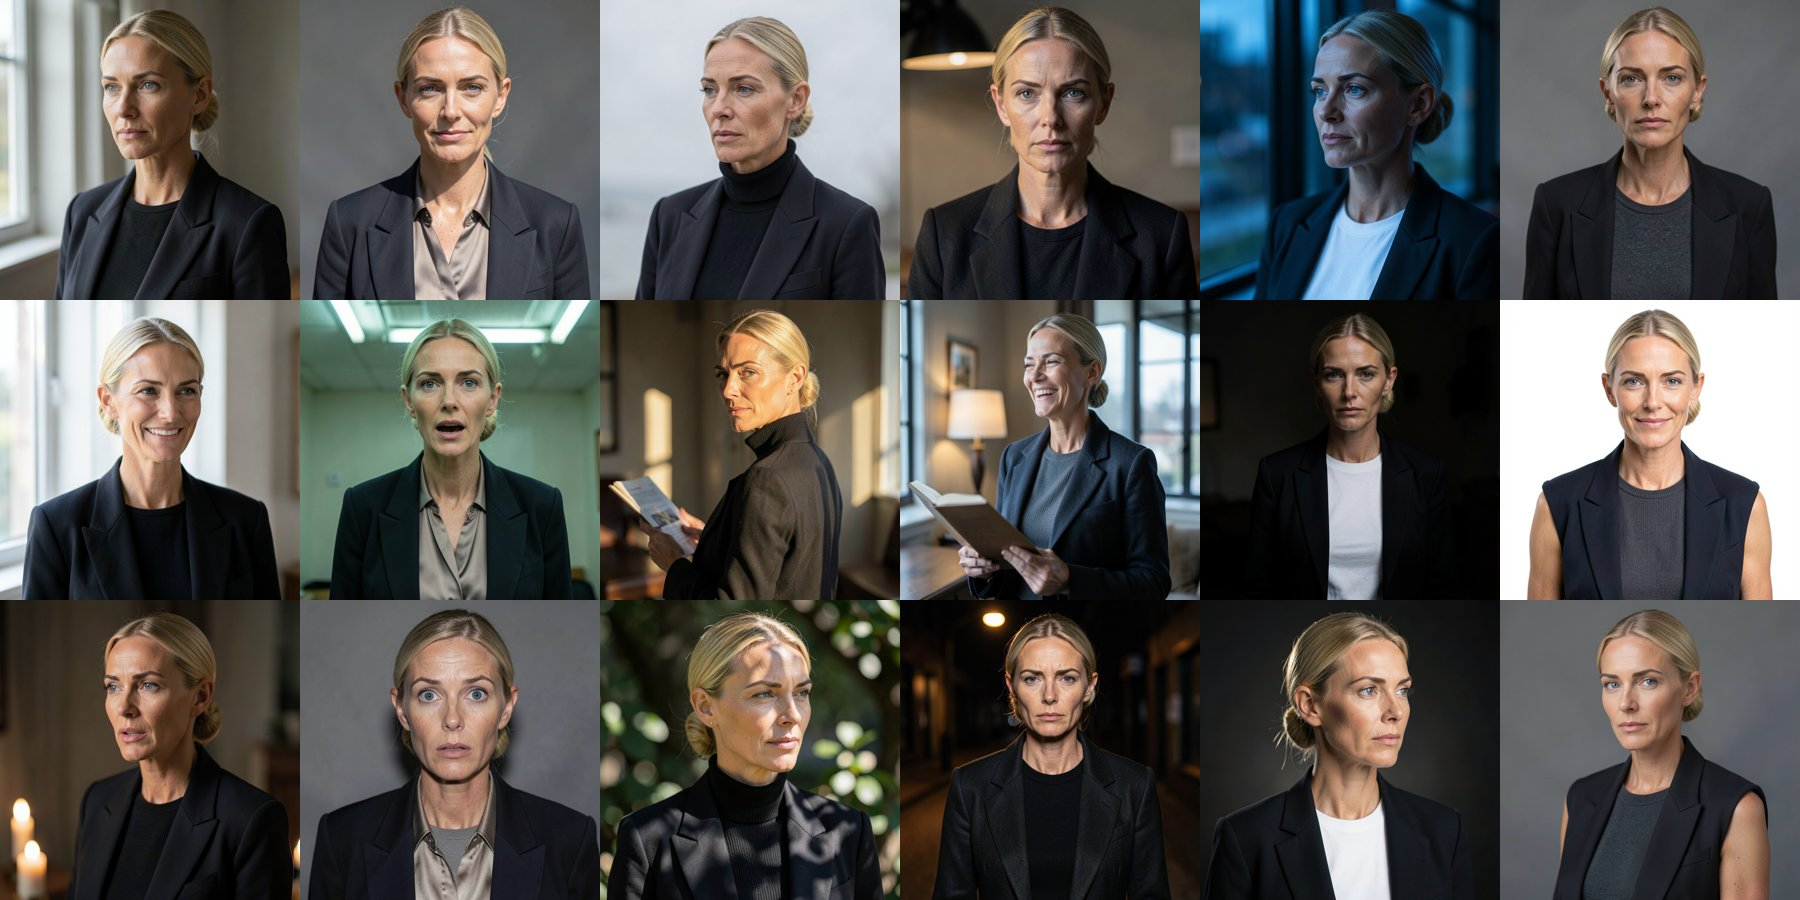
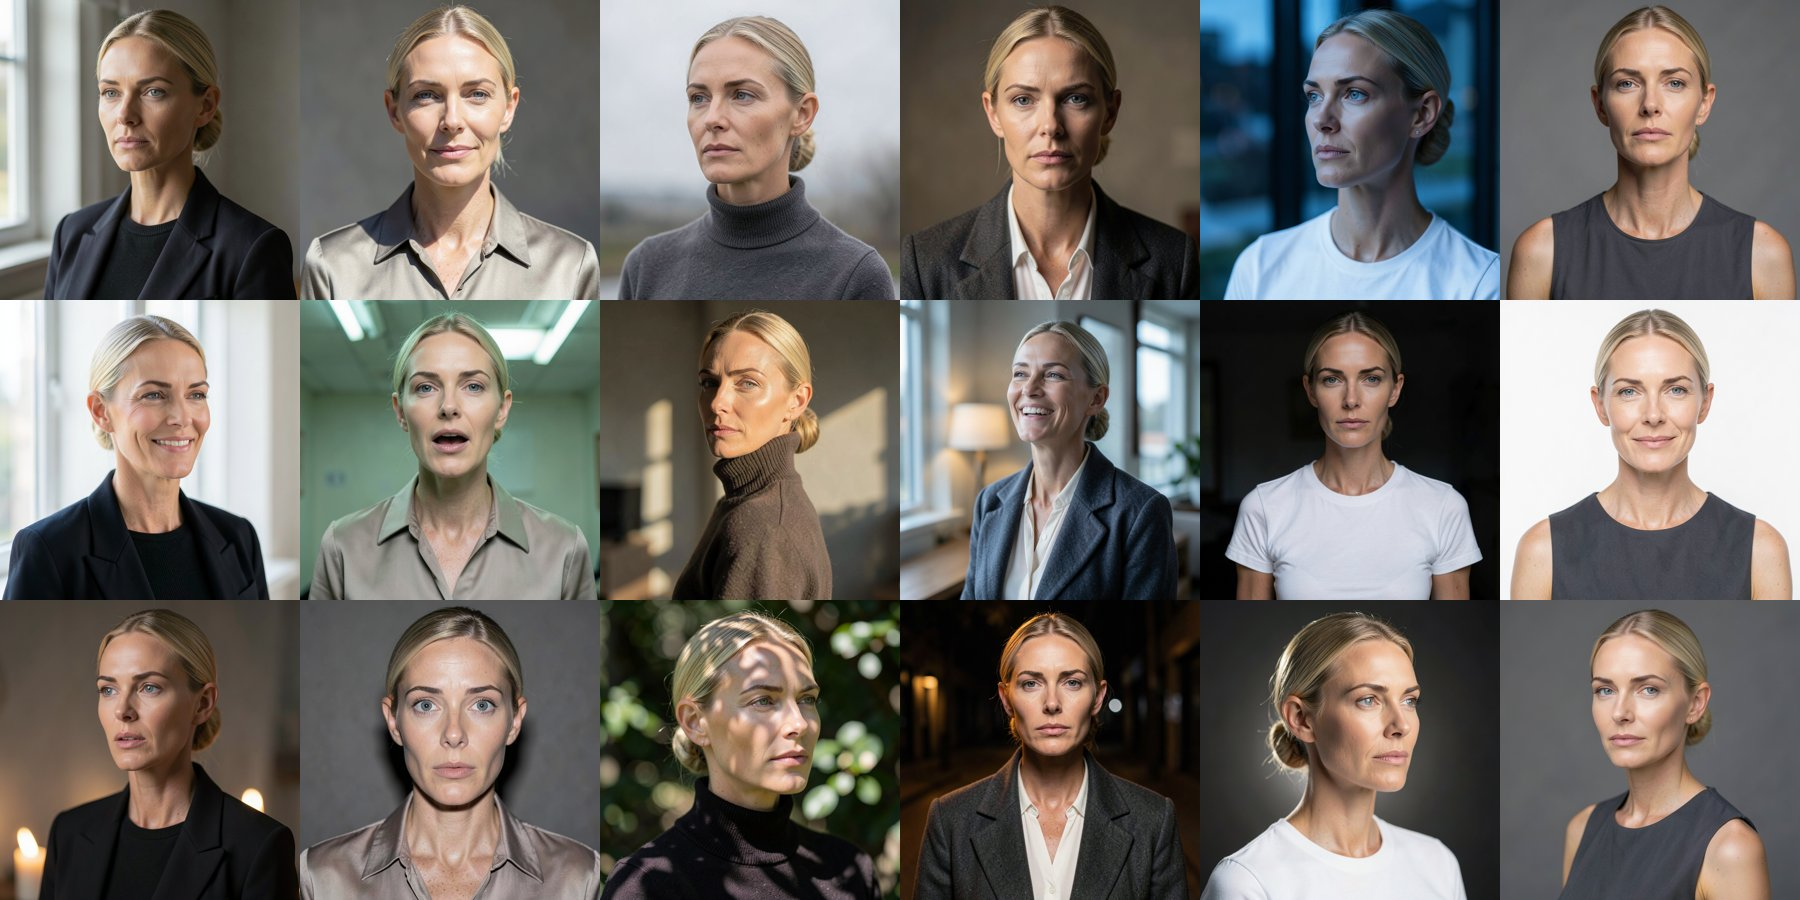
3.8: regenerate all four training sets against the locked anchors
72 frames, ~6 minutes of GPU. Pre-warming the model files first kept the
cold-EBS stall to about two minutes instead of twelve.

pengold best of the four - the softness held across all 18. dick fully
recovered from the gaunt first pass. valencia unchanged. summer good on
wardrobe, still drifts a few years older in about a third of frames.

Recorded: Summer's beatific note is deliberately absent from her training
set. Radiance is a lighting fact, the training set exists to vary lighting,
so it belongs in the shot spec at render time - not baked into the LoRA.

Box stopped.

Claude-Session: https://claude.ai/code/session_0119jELvJaasFuGQ8S9TGFfk

diff --git a/projects/new_harnomy_usa/03_design/characters/training/gen_trainset.py b/projects/new_harnomy_usa/03_design/characters/training/gen_trainset.py
@@ -30,29 +30,32 @@ OUTDIR = os.path.expanduser("~/nh_out")
 
 # --- identity, from the LOCKED VISUAL DESCRIPTORs in the character bibles -----
 CANON = {
- "valencia": ("a woman of twenty-eight, unmistakably in her twenties with smooth firm skin across the cheek and jaw, of unplaceable ethnicity, heavy dark brows and a strong nose "
-              "framing steady dark eyes, the mouth soft rather than held, faint shadows of tiredness beneath "
-              "the eyes, dark hair worn loose and practical and slightly undone, slight build, grave but not "
-              "defended, secondhand layering worn as a work uniform, a thrifted cardigan over a plain tee"),
- "summer":   ("a woman in her early forties maintained to read younger, genuinely beautiful in a cool "
-              "patrician way, ash-blonde hair in a low chignon, a narrow face, lightly tanned and flawlessly "
-              "kept, slim and strong, a well-cut dark blazer over a fine plain knit in expensive unpatterned "
-              "fabric, composure that is visibly maintained rather than natural"),
- "pengold":  ("a man in his late forties, dark hair combed back with care, a strong brow, clean-shaven and "
-              "gleaming, tall and heavy through the shoulders in the way of a man who lifts, immaculate dark "
-              "suiting in fine wool, a crisp white shirt, faintly amused and completely unbothered"),
- "dick":     ("a man of thirty-two, young and healthy, a full unlined face with firm weight in the cheeks "
-              "and a square jaw, smooth clear tanned skin, a thick neck and broad heavy gym-built shoulders "
-              "on an athletic muscular frame, dirty-blond hair thick and full on top, cut close at the "
-              "temples and above the ears, the crown length swept back and stopping at the jawline, a "
-              "beautifully cut heritage workwear jacket over a plain fitted tee, an easy open face with "
-              "nothing behind the eyes"),
+ "valencia": ("a woman of twenty-eight, unmistakably in her twenties with smooth firm skin across the cheek "
+              "and jaw, of unplaceable ethnicity, heavy dark brows and a strong nose framing steady dark eyes, "
+              "the mouth soft rather than held, faint shadows of tiredness beneath the eyes, dark hair worn "
+              "loose and practical and slightly undone, slight build, grave but not defended, secondhand "
+              "layering worn as a work uniform"),
+ "summer":   ("a woman of thirty-eight, genuinely beautiful in a cool patrician way, skin smooth and firm at "
+              "the cheek, jaw and throat, ash-blonde hair in a low chignon, a narrow face, luminous and "
+              "well-rested, slim and strong, the brow entirely smooth and unfurrowed, the lips softly closed "
+              "and resting rather than pressed, a serene inward calm with light in it, the neck long and the "
+              "chin carried level, grace rather than satisfaction"),
+ "pengold":  ("a man of forty-one, youthful and pampered, dark hair slicked back tight to the skull over a "
+              "clean high forehead with a light silvering of grey at the temples, a short well-manicured dark "
+              "hipster beard tidy at the cheek line, smooth clear unweathered skin, full rounded lower cheeks "
+              "with the jaw angle softened into a gentle curve, a small soft fullness under the chin, a fuller "
+              "neck at the collar, the frame trim and upright, faintly amused and completely unbothered"),
+ "dick":     ("a man of thirty-one, soft and delicately beautiful, fine-boned and almost feminine, a smooth "
+              "unlined jaw, full soft lips, long lashes and gentle brows, tanned and clear-skinned, the slim "
+              "light athletic build of a professional tennis player with no bulk and no hollowing at the "
+              "cheeks, dirty-blond hair worn long and loose past the jaw to the collarbone, soft and shining, "
+              "an easy open face with nothing behind the eyes"),
 }
 ANCHOR = {
- "valencia": "nh/VAL-H01-rest.png",
- "summer":   "nh/SUM-K02-rest.png",
- "pengold":  "nh/PEN-K03-rest.png",
- "dick":     "nh/DIC-K02-hair-v2.png",
+ "valencia": "nh/VAL-FINAL.png",
+ "summer":   "nh/SUM-FINAL.png",
+ "pengold":  "nh/PEN-FINAL.png",
+ "dick":     "nh/DIC-FINAL.png",
 }
 
 # --- the variation axes. Everything here changes; the face does not. ---------

diff --git a/projects/new_harnomy_usa/03_design/characters/training/README.md b/projects/new_harnomy_usa/03_design/characters/training/README.md
@@ -26,28 +26,37 @@ Wardrobe needed its own explicit list per character (`WARDROBE`): the reference
 latent pins clothing hard, and without an override the LoRA would have baked the
 anchor's jacket into the identity.
 
-## Review, 2026-09-03
+## Review — regenerated against the LOCKED anchors, 2026-09-03
+
+The first pass of these sets was generated against the pre-revision anchors and is
+superseded. After Brad's direction (Summer younger + beatific, Dick softer and
+longer-haired, Pengold bearded and soft) all four anchors were re-cut and all 72
+frames regenerated. About six minutes of GPU.
 
 | Set | Verdict |
 |---|---|
-| valencia | **GOOD.** Identity holds across all 18. Light, wardrobe, expression and background all vary. Reads a few years older than her canon late twenties. |
-| pengold | **GOOD — the best of the four.** Heavy through the face and shoulders as canon requires; expression range from laughing to sombre. |
-| summer | **ACCEPTABLE, one caveat.** Identity holds, but she reads mid-to-late forties rather than "early forties *maintained to read younger*" — and the maintenance is the character point. The blazer also survived the wardrobe override in most frames. |
-| dick | **NOT APPROVED.** See below. |
+| pengold | **BEST OF THE FOUR.** The hard-won softness held across all 18 — full cheeks, softened jaw, the slicked hair and temple grey consistent, beard dark and neat. Wardrobe genuinely varies (suit, shirt and tie, polo, overcoat, black tie) and the expression range runs from laughing to sombre. |
+| valencia | **GOOD, unchanged.** She was never re-anchored. |
+| dick | **GOOD — recovered.** The gaunt forty-year-old of the first pass is gone. Long dirty-blond hair, soft features, lean tennis-player build, identity consistent. A few frames still read slightly narrower than the anchor; acceptable. |
+| summer | **GOOD on wardrobe, one persistent caveat.** The wardrobe override worked this time — silk blouse, roll-neck, coat, white tee, sleeveless shift all present. Identity holds. She still reads a few years older than her canon thirty-eight in perhaps a third of the frames. |
 
-## The Dick problem — open decision
+### The beatific note is deliberately NOT in Summer's training set
 
-His set came back gaunt, in his forties, without the gym build, and with the hair
-drifted into a slicked-back mullet rather than the approved cut. A second pass
-with every preserved quality given its own positive clause (NH-USA-016) moved it
-perhaps a fifth of the way and no further.
+Her radiance is a *lighting* fact (NH-USA-020) — a luminous key wrapping the
+cheekbones, catchlights, an unfurrowed brow. The training set exists to vary lighting
+so the LoRA learns her face rather than her key light, so the beatific quality cannot
+and must not survive into it. **It is a per-shot decision at render time**, carried by
+the shot spec, not by the LoRA. Baking it in would give us a woman who glows in a
+basement.
 
-Root cause is upstream of this step: `DIC-K02-hair-v2` is itself slightly narrower
-than the DIC-K02 face Brad approved (recorded at NH-USA-014), and Klein amplifies
-that drift over 18 frames. Prompting cannot outvote the reference.
+## The Dick problem — RESOLVED
 
-**The recommendation is to re-anchor him on the original `caste/DIC-K02.png`** and
-let the training set carry that face with its original hair. A character LoRA's
-job is bone structure; hair is a per-shot variable — and Dick needs TWO hair states
-(down for Acts I–II, gathered for Act III) regardless, so baking either one into
-the LoRA is wrong on its own terms.
+His first set came back gaunt, in his forties, without the gym build. Prompting could
+not fix it: the anchor `DIC-K02-hair-v2` was itself narrower than the approved face and
+Klein amplified that over 18 frames (NH-USA-016). Brad's 2026-09-03 direction then
+reframed the character — softer, more feminine, a pro tennis player's build, longer
+hair — and a new anchor was cut to that brief. Regenerating against it fixed the set.
+
+The lesson generalised into the rule now recorded in `casting/SELECTIONS.md`:
+**classify the change before choosing the method.** Surface changes survive an edit
+against a reference; structural changes must be generated from text and re-cast.
